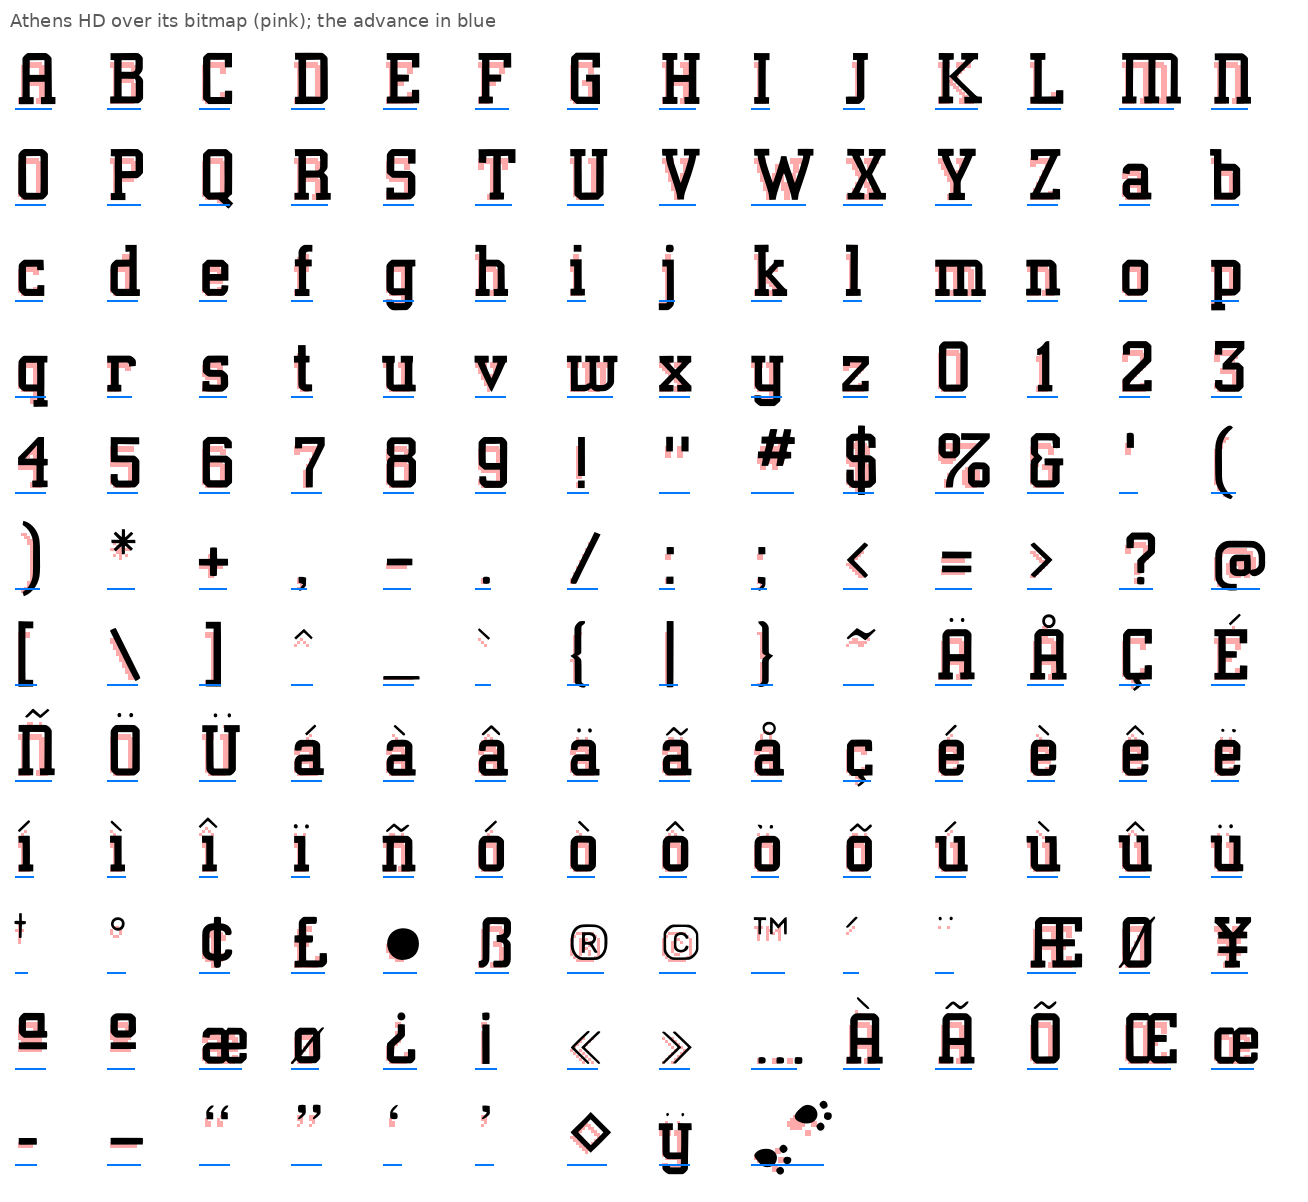
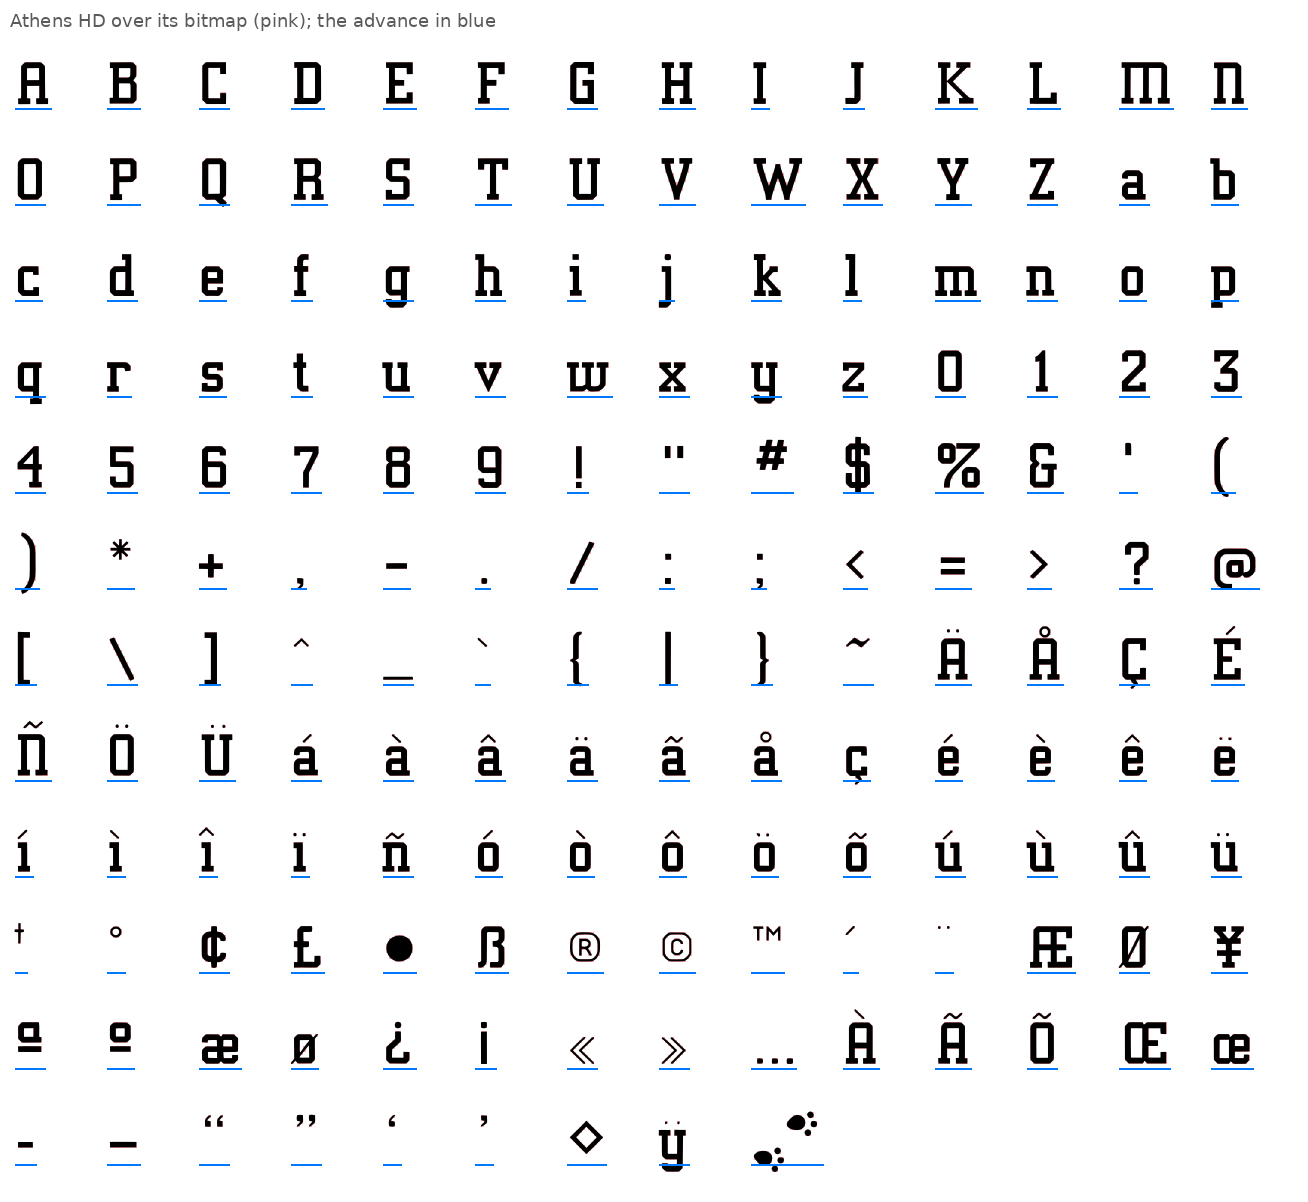
Athens HD specimen: the font set at its own em (18 bitmap pixels), not the strike's 22
Claude-Session: https://claude.ai/code/session_01CQ6vQTb8Z7L7dhdmG8pUbp

diff --git a/classic-mac/tools/specimen.py b/classic-mac/tools/specimen.py
@@ -12,7 +12,7 @@ HERE = os.path.dirname(os.path.abspath(__file__))
 ROOT = os.path.join(HERE, '..')
 sys.path.insert(0, HERE)
 import bitmap
-from build import VERSIONS, NAMES
+from build import VERSIONS, NAMES, PX
 
 LABEL = '/usr/share/fonts/truetype/dejavu/DejaVuSans.ttf'
 
@@ -21,7 +21,9 @@ def compare(font):
     strike, metrics = bitmap.strike(font)
     S = 3                                                   # specimen pixels per bitmap pixel
     path = os.path.join(ROOT, 'fonts', 'otf', NAMES[font].replace(' ', '') + '-Regular.otf')
-    F = ImageFont.truetype(path, metrics['ppem'] * S)
+    from fontTools.ttLib import TTFont
+    em = TTFont(path)['head'].unitsPerEm / PX              # the font's em, in bitmap pixels (18 for Athens 18)
+    F = ImageFont.truetype(path, int(round(em * S)))
     chars = [g['char'] for g in json.load(open(os.path.join(ROOT, 'scans', f'{font}-glyphs.json')))['glyphs']]
     cols, cw = 14, max(strike[c]['adv'] for c in chars) * S + 20
     ch = (metrics['ascender'] - metrics['descender']) * S + 30
